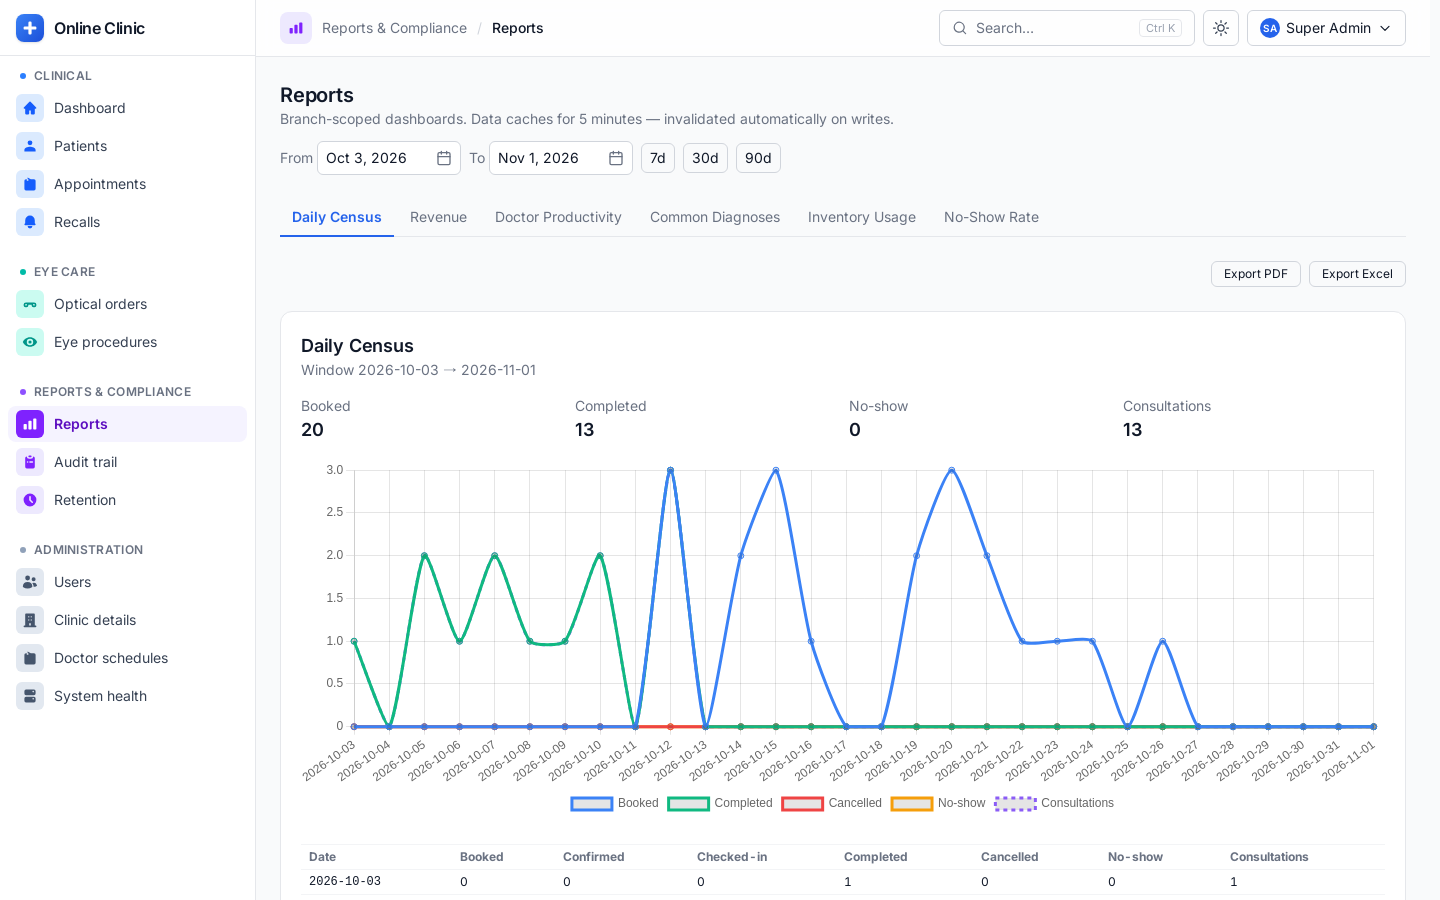
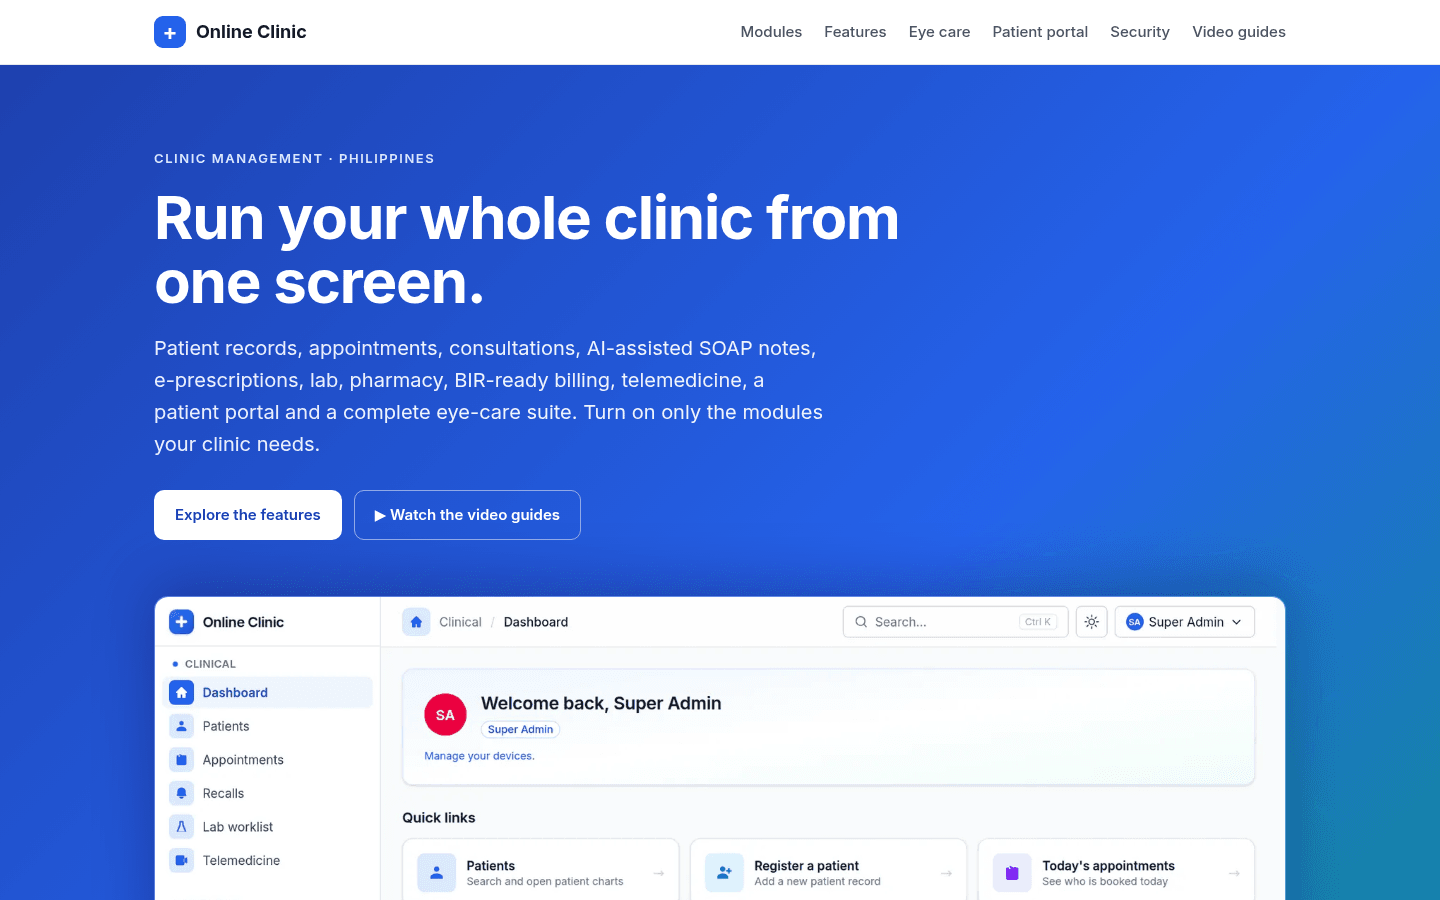
Link the WMT and Online Clinic cards to their websites
Replaces both thumbnails with compressed screenshots of the new sites,
swaps the Internal/Private pills for website links, and renames WMT to
"Workload Management Tool" to match the site.

diff --git a/index.html b/index.html
@@ -575,22 +575,22 @@
             </div><!-- End Portfolio Item -->
 
             <div class="col-lg-4 col-md-6 portfolio-item isotope-item filter-app">
-              <img src="assets/img/portfolio/wmt.png" class="img-fluid" loading="lazy" alt="WMT dashboard — due today and overdue tasks, project and task stats, team overdue work">
+              <img src="assets/img/portfolio/wmt.png" class="img-fluid" loading="lazy" alt="WMT website — projects, tasks and approvals in one place, with a preview of the dashboard">
               <div class="portfolio-info">
-                <h3>WMT — Work Management Tool</h3>
+                <h3>WMT — Workload Management Tool</h3>
                 <p>Laravel, Inertia, React, MySQL, Redis, queues, WebSockets, Docker</p>
-                <a href="assets/img/portfolio/wmt.png" title="WMT — Work Management Tool (dashboard, demo data)" data-gallery="portfolio-gallery-app" class="glightbox preview-link" aria-label="Preview WMT"><i class="bi bi-zoom-in"></i></a>
-                <span class="status-pill">Internal</span>
+                <a href="assets/img/portfolio/wmt.png" title="WMT — Workload Management Tool" data-gallery="portfolio-gallery-app" class="glightbox preview-link" aria-label="Preview WMT"><i class="bi bi-zoom-in"></i></a>
+                <a href="https://wmt-features.vercel.app/" title="Visit the WMT website" target="_blank" rel="noopener" class="details-link" aria-label="Visit WMT"><i class="bi bi-link-45deg"></i></a>
               </div>
             </div><!-- End Portfolio Item -->
 
             <div class="col-lg-4 col-md-6 portfolio-item isotope-item filter-app filter-ai">
-              <img src="assets/img/portfolio/online-clinic.png" class="img-fluid" loading="lazy" alt="Online Clinic reports dashboard — daily census of booked, completed and no-show appointments">
+              <img src="assets/img/portfolio/online-clinic.png" class="img-fluid" loading="lazy" alt="Online Clinic website — run your whole clinic from one screen, with a preview of the dashboard">
               <div class="portfolio-info">
                 <h3>Online Clinic</h3>
                 <p>Laravel, Inertia, React, TypeScript, MySQL, AI-assisted intake</p>
-                <a href="assets/img/portfolio/online-clinic.png" title="Online Clinic — Reports dashboard (demo data)" data-gallery="portfolio-gallery-app" class="glightbox preview-link" aria-label="Preview Online Clinic"><i class="bi bi-zoom-in"></i></a>
-                <span class="status-pill">Private</span>
+                <a href="assets/img/portfolio/online-clinic.png" title="Online Clinic — Clinic management for the Philippines" data-gallery="portfolio-gallery-app" class="glightbox preview-link" aria-label="Preview Online Clinic"><i class="bi bi-zoom-in"></i></a>
+                <a href="https://cloud-based-clinic.vercel.app/" title="Visit the Online Clinic website" target="_blank" rel="noopener" class="details-link" aria-label="Visit Online Clinic"><i class="bi bi-link-45deg"></i></a>
               </div>
             </div><!-- End Portfolio Item -->
 
